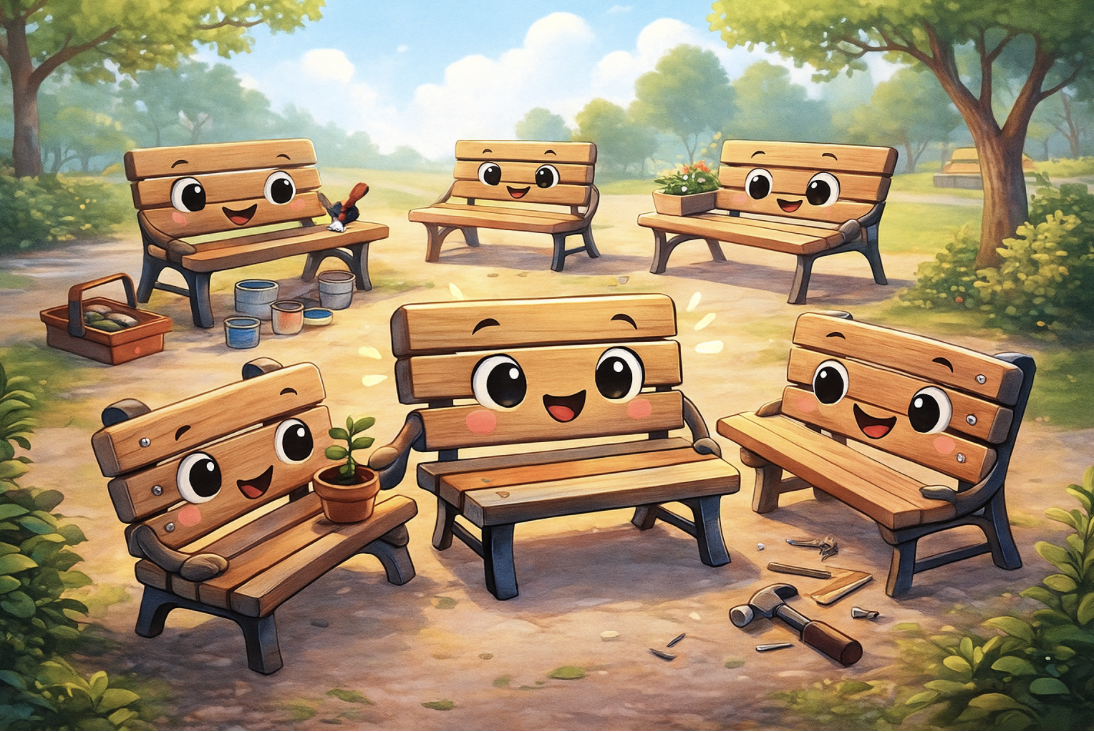
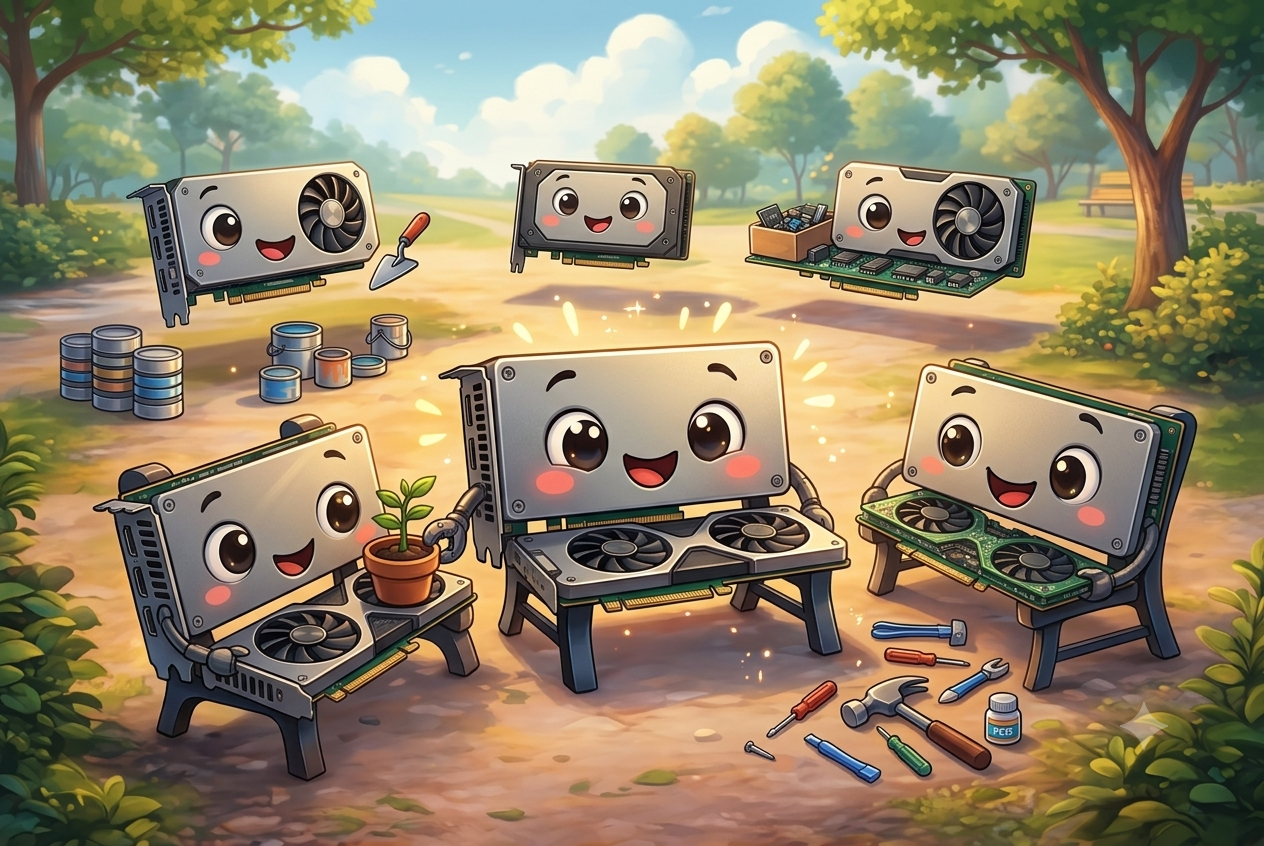
new images

diff --git a/index.html b/index.html
@@ -256,6 +256,12 @@
             text-align: center;
         }
 
+        .figure--compact img {
+            max-width: min(480px, 100%);
+            margin: 0 auto;
+            display: block;
+        }
+
         .figure-row {
             display: flex;
             gap: 1.25rem;
@@ -547,6 +553,11 @@
                 for <a href="https://github.com/NVIDIA-NeMo/RL/tree/main">NVIDIA NeMo-RL's GRPO training loop</a>, which has no prior optimized public
                 reference.
             </p>
+            <img
+                class="hero-image"
+                src="images/cute_gpus.png"
+                alt=""
+            >
         </div>
     </section>
 
@@ -578,6 +589,11 @@
                     or NVLS — and whether to fuse that movement with compute.
                 </li>
             </ul>
+            <img
+                class="hero-image"
+                src="images/confused_gpu.png"
+                alt=""
+            >
         </div>
     </section>
 
@@ -865,6 +881,20 @@
                     </figcaption>
                 </figure>
             </div>
+
+            <figure class="figure">
+                <img
+                    src="images/profiler_trace_cropped.png"
+                    alt="Profiler trace for GEMM plus All-Gather comparing theoretical roofline, LLM-generated CUDA kernel, and PyTorch NCCL reference"
+                >
+                <figcaption>
+                    Profiler trace for GEMM + All-Gather: a generated CUDA kernel (87.9&thinsp;&mu;s)
+                    overlaps compute and communication over NVLink, beating the PyTorch + NCCL
+                    reference (320.6&thinsp;&mu;s) while still above the theoretical roofline
+                    (4.99&thinsp;&mu;s).
+                </figcaption>
+            </figure>
+
             <p>
                 The natural next step is to give the model the same feedback loop a human kernel
                 writer would use. We wrapped Gemini 3 Pro in an <a href="https://github.com/SWE-agent/mini-swe-agent">agentic harness</a> with access to the
@@ -872,6 +902,16 @@
                 its previous attempts. Instead of producing one kernel and stopping, the model could
                 compile, run the benchmark, inspect failures, and revise.
             </p>
+            <figure class="figure figure--compact">
+                <img
+                    src="images/how_agent_works.png"
+                    alt="Agentic harness loop: language model receives prompts and examples, executes shell commands, and iterates until satisfied or out of budget"
+                >
+                <figcaption>
+                    Agentic evaluation loop: the model writes files, runs correctness tests and
+                    benchmarks, and iterates until the solution passes or the step budget is exhausted.
+                </figcaption>
+            </figure>
             <p>
                 This helped, but the practical gains are modest. Gemini 3 Pro improved from 24
                 correct solutions in the single-shot setting to 35 out of 87, with 26 kernels
@@ -888,6 +928,16 @@
     <section class="section">
         <div class="container">
             <h2 class="section-title">Net New Kernels</h2>
+            <figure class="figure">
+                <img
+                    src="images/quantitative_kernel_analysis_cropped.png"
+                    alt="Side-by-side comparison of reference PyTorch NCCL all_gather plus cuBLAS GEMM versus LLM-generated GEMM with symmetric all_gather using NVLink peer memory"
+                >
+                <figcaption>
+                    Example of replacing NCCL collectives with direct NVLink loads and stores:
+                    the reference requires extra reshaping alongside NCCL collectives; the generated kernel fuses compute operations with direct peer memory reads.
+                </figcaption>
+            </figure>
             <p>
                 Beyond speedups on standard collectives, single-shot generation occasionally
                 surfaces genuinely new high-performance kernels for workloads with no optimized